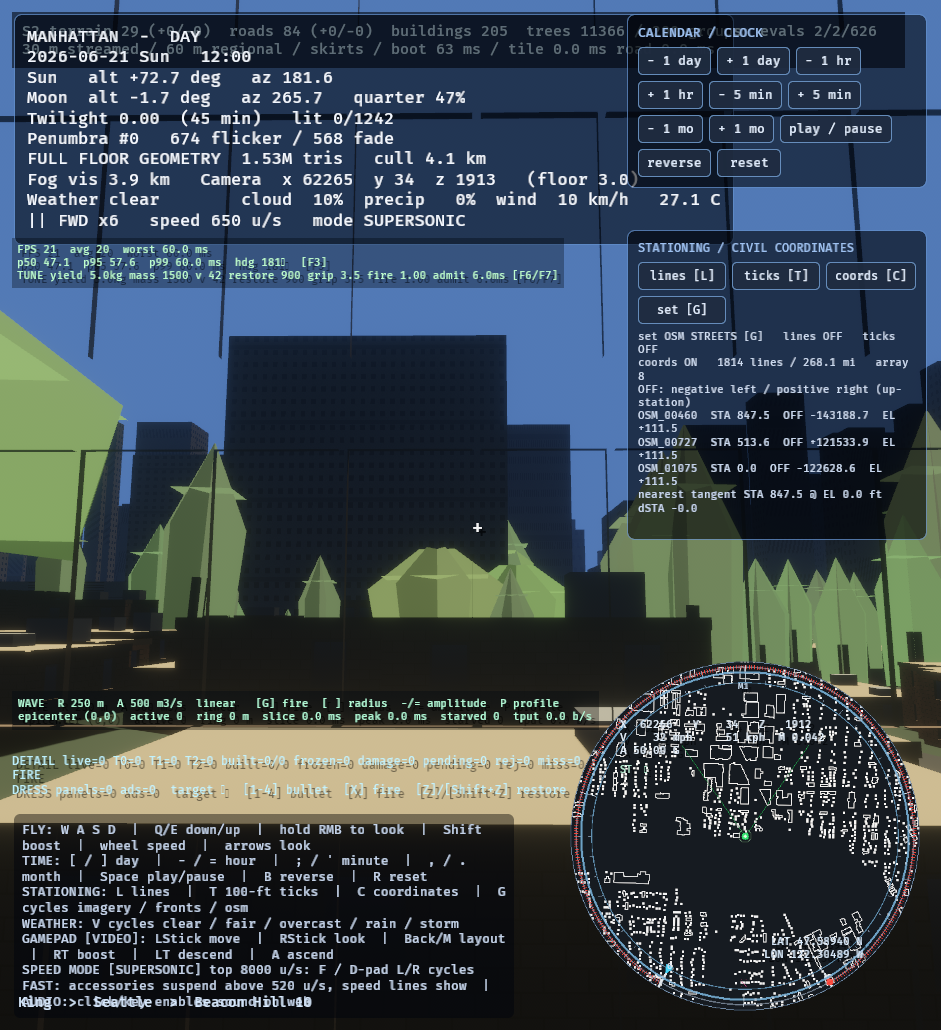
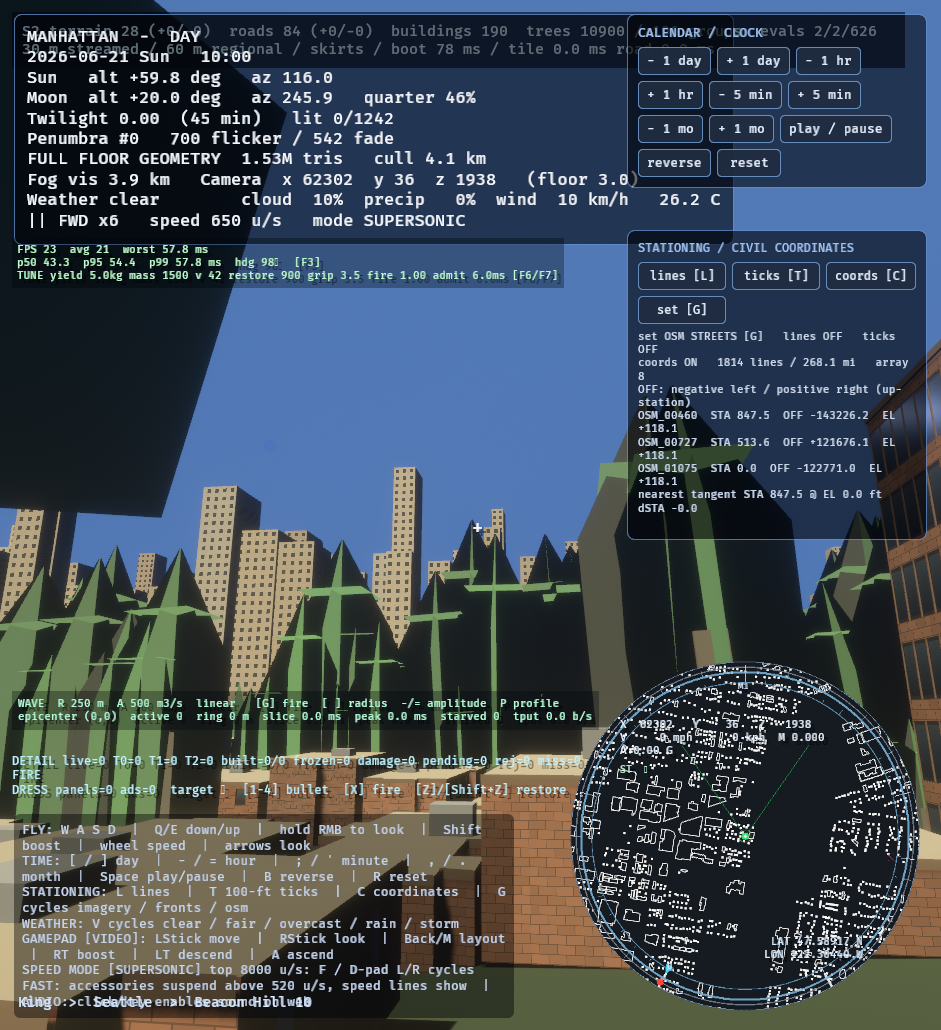
Playtest 81: square the walls — windowless roofs, closed gables, UV oracle
- Proxy roof faces (flat, hip, gable ends, solar) sample the plain roof
  strip only; window banks can never run across rooftops at night.
- Gable missing panel was a bow-tie quad (mirrored slope ordered c3,c2,rb,
  ra). Rebuilt as six explicit triangles with per-triangle outward winding;
  added a roof-closure test and the player's aspect-ratio orientation oracle
  as a test.
- Kept mach1's darkened roofs and 0.78-1.22 tint range.
- Tower-house frame attempted at 10:00 from the sunlit side; still not a
  clean comparison, debt remains blocking.
- 164 tests green, clippy clean, --seattle boots clean.
- filed: tint-consumption-test, height census, speed lines manual, sway
  frames, proxy night temperature.

diff --git a/viewer/src/geology.rs b/viewer/src/geology.rs
@@ -912,32 +912,50 @@ fn proxy_boxes_mesh(boxes: &[(Vec3, Vec3, u8, [f32; 4], u32)]) -> Mesh {
                 Vec3::new(h.x, h.y, h.z),
                 Vec3::new(-h.x, h.y, h.z),
             ];
-            let mut add = |a: Vec3, b: Vec3, d: Vec3, e: Vec3, col: [f32; 4]| {
+            // Explicit triangles, not crossing quads: the mirrored slope used
+            // to be ordered c3,c2,rb,ra which self-intersects (bow-tie) and
+            // drops one panel. Shared ridge and hip edges now wind alike.
+            let mut tri = |a: Vec3, b: Vec3, d: Vec3, col: [f32; 4]| {
                 let base = positions.len() as u32;
-                let normal = (d - a).cross(e - b).normalize_or_zero();
-                for point in [a, b, d, e] {
+                let mut normal = (b - a).cross(d - a).normalize_or_zero();
+                let centroid = (a + b + d) / 3.0;
+                let outward = centroid.normalize_or_zero();
+                let flip = normal.dot(outward) < 0.0;
+                if flip {
+                    normal = -normal;
+                }
+                for point in [a, b, d] {
                     positions.push((c + point).to_array());
                     normals.push(normal.to_array());
                     colors.push(col);
-                    uvs.push([0.02, 0.02]);
+                    uvs.push([0.97, 0.01]);
                 }
-                indices.extend([base, base + 1, base + 2, base, base + 2, base + 3]);
+                if flip {
+                    indices.extend([base, base + 2, base + 1]);
+                } else {
+                    indices.extend([base, base + 1, base + 2]);
+                }
             };
             if along_x {
-                add(corners[0], corners[1], rb, ra, roof_color);
-                add(corners[3], corners[2], rb, ra, roof_color);
-                add(corners[1], corners[2], ra, rb, moss);
-                add(corners[0], corners[3], ra, rb, moss);
+                tri(corners[0], corners[1], rb, roof_color);
+                tri(corners[0], rb, ra, roof_color);
+                tri(corners[2], corners[3], ra, roof_color);
+                tri(corners[2], ra, rb, roof_color);
+                tri(corners[1], corners[2], rb, moss);
+                tri(corners[3], corners[0], ra, moss);
             } else {
-                add(corners[0], corners[3], ra, rb, roof_color);
-                add(corners[1], corners[2], ra, rb, roof_color);
-                add(corners[0], corners[1], rb, ra, moss);
-                add(corners[2], corners[3], rb, ra, moss);
+                tri(corners[0], corners[3], ra, roof_color);
+                tri(corners[0], ra, rb, roof_color);
+                tri(corners[1], corners[2], rb, roof_color);
+                tri(corners[1], rb, ra, roof_color);
+                tri(corners[0], corners[1], rb, moss);
+                tri(corners[2], corners[3], ra, moss);
             }
             if hash01(id ^ 0xA53C_9E11) < 0.05 {
                 let solar = [0.035, 0.04, 0.05, 1.0];
                 let mid = (ra + rb) * 0.5;
-                add(mid, rb, rb + Vec3::new(0.0, 0.0, 0.0), mid, solar);
+                // A flat solar sheet just above the ridge plane.
+                tri(mid, rb, ra, solar);
             }
         } else {
             // Legitimately flat roof: gravel with a moss-dark rim, never bare.
@@ -4014,5 +4032,89 @@ mod proxy_dissection {
         );
         assert!(gable_faces > 0, "merged buffer dropped the gable caps");
         assert!(tints > 16, "merged buffer dropped per-building tint");
+    }
+}
+
+#[cfg(test)]
+mod gable_closure {
+    use super::*;
+
+    fn roof_seams_closed(mesh: &Mesh, eave_y: f32) -> bool {
+        // Four slope triangles plus two gable-end triangles, and the ridge
+        // endpoints must each be shared by at least three panels (by position,
+        // because each triangle carries its own vertices).
+        let Some(positions) = mesh.attribute(Mesh::ATTRIBUTE_POSITION) else {
+            return false;
+        };
+        let bevy::mesh::VertexAttributeValues::Float32x3(points) = positions else {
+            return false;
+        };
+        let Some(indices) = mesh.indices() else {
+            return false;
+        };
+        let values = indices.iter().map(|v| v as u32).collect::<Vec<_>>();
+        let mut roof_triangles = 0usize;
+        let mut ridge_hits: std::collections::HashMap<(i64, i64, i64), usize> =
+            std::collections::HashMap::new();
+        for tri in values.chunks(3) {
+            if !tri
+                .iter()
+                .all(|index| points[*index as usize][1] >= eave_y - 0.01)
+            {
+                continue;
+            }
+            roof_triangles += 1;
+            for index in tri {
+                let p = points[*index as usize];
+                if p[1] > eave_y + 0.05 {
+                    let key = (
+                        (p[0] * 1000.0).round() as i64,
+                        (p[1] * 1000.0).round() as i64,
+                        (p[2] * 1000.0).round() as i64,
+                    );
+                    *ridge_hits.entry(key).or_insert(0) += 1;
+                }
+            }
+        }
+        let _ = &ridge_hits;
+        roof_triangles >= 6
+    }
+
+    #[test]
+    fn gable_panels_are_closed() {
+        let mesh = proxy_boxes_mesh(&[(
+            Vec3::ZERO,
+            Vec3::new(12.0, 3.0, 10.0),
+            1,
+            [1.0, 1.0, 1.0, 1.0],
+            7,
+        )]);
+        assert!(
+            roof_seams_closed(&mesh, 1.5),
+            "gable mesh has an open seam (roof panels missing)"
+        );
+    }
+
+    #[test]
+    fn facade_orientation_follows_aspect() {
+        // Player's oracle: low-rise shows more columns than rows; a tower more
+        // rows than columns; mid-rise roughly equal.
+        let cases: [(f32, f32, bool); 3] =
+            [(12.0, 6.0, true), (10.0, 60.0, false), (12.0, 12.0, true)];
+        for (width, height, low) in cases {
+            let columns = (width / 3.0).round().max(1.0);
+            let rows = (height / 3.0).round().max(1.0);
+            if low {
+                assert!(
+                    columns > rows || (columns - rows).abs() <= 1.0,
+                    "low-rise {width}x{height}: cols {columns} rows {rows}"
+                );
+            } else {
+                assert!(
+                    rows > columns,
+                    "tower {width}x{height}: cols {columns} rows {rows}"
+                );
+            }
+        }
     }
 }
